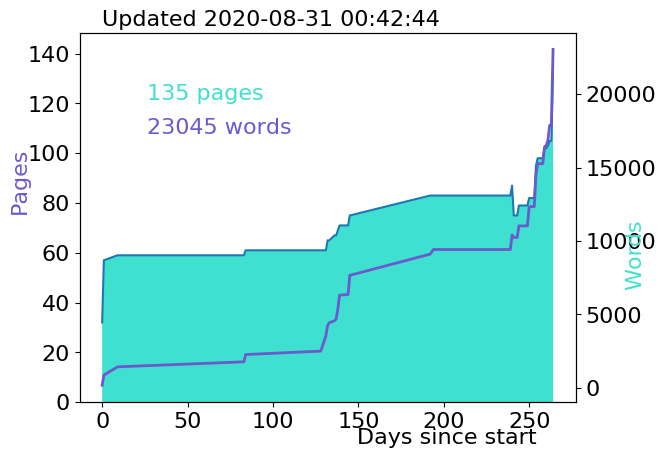
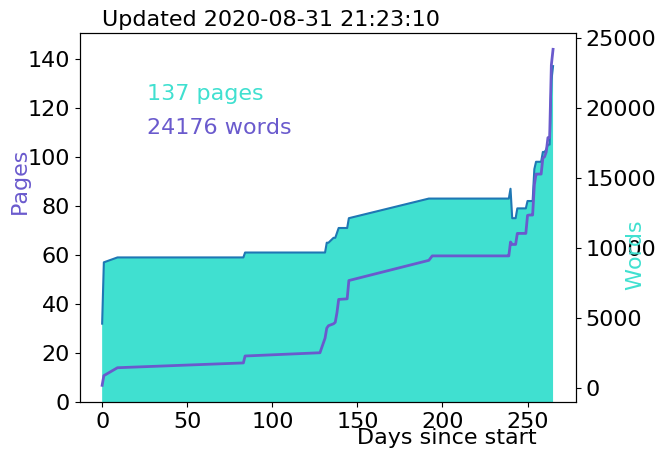
introduction and conclusion

diff --git a/Chapters/Introduction.tex b/Chapters/Introduction.tex
@@ -1,1 +1,37 @@
-%words
+\chapter{Introduction}
+
+Particle physics seeks to understand the fundamental structure of the universe by defining the minimal set of particles required to describe all physical phenomena. The \acf{SM} is the best attempt at such a description. The \ac{SM} has undergone decades of rigorous testing and can explain almost all phenomena we see in experiments, yet it has long been known that the \ac{SM} is missing explanations for essential physical phenomena like quantum description of gravity or a dark matter candidate. As a result, many \acf{BSM} theories have been developed and tested, hoping to extend and complete the picture the \ac{SM} gives. So far, none of these theories have been discovered where physicists expected and hoped they might be.
+
+The \acf{LHC} at \acf{CERN}, a 27 km particle collider outside of Geneva, Switzerland on the border with France, is the largest particle physics experiment in the world, and provides an extremely effective environment to test the \ac{SM} and a wide variety of \ac{BSM} theories. This thesis uses data from the \acf{ATLAS} experiment, one of the four largest experiments along the \ac{LHC} ring designed to measure the results of \ac{LHC} collisions.
+
+Beams of protons circulate and collide in the \ac{LHC}, and if two protons collide with sufficiently high energy, massive particles can be created; $\sqrt{s} = 8 \TeV$ collisions enabled the 2012 discovery of the Higgs boson with mass of 125 \GeV. The \ac{LHC} provides 60 million collisions per second, enabling physicists to use the various subdetectors of \ac{ATLAS} are used together search for new and rare physical phenomena. Unfortunately, after 8 years of data taking no evidence of \ac{BSM} physics has been found. Data taking is scheduled to resume in 2022 with only a moderate increase in collision energy and about a factor 2 more data. 
+
+This is a call to re-examine the assumptions made in \ac{BSM} searches that have been performed so far. What could we have missed in our search for new physics at the TeV scale? Most searches are optimized for \ac{BSM} particles that either decay immediately or do not decay in the detector, but this misses a large range of intermediate lifetimes of possible \ac{BSM} particles. These signatures are challenging, but not impossible, to identify with \ac{ATLAS} as they result in displaced \ac{SM} particles. Many \ac{SM} particles are long lived, like muons or neutrons, and many \ac{BSM} theories predict particles with lifetimes that result in displaced decays. This thesis presents a search for one such signature.
+
+This thesis presents a search for two displaced \ac{SM} leptons, either electrons or muons, that are not connected by a displaced vertex. Due to the displacement and lack of vertex, a \ac{BSM} particle decaying to this signature would be vetoed by all other analyses at the \ac{LHC}. This search has unique sensitivity to a specific \acf{GMSB} \acf{SUSY} model where the \acf{LSP} is the superpartner to the graviton, the gravitino, and the \acf{NLSP} is a slepton, the superpartner to a lepton. The slepton is long lived because it relies on the very weak gravitational coupling to the gravitino. The last time this model was explored was in the OPAL experiment at \acf{LEP} \cite{opal}, where masses up to about 90 \GeV were probed for a full range of lifetimes, immediately decaying to detector stable and all possible signatures in between. This search probes almost an order of magnitude of mass phase space in a significantly more challenging environment than \ac{LEP}.
+
+Bespoke particle selection algorithms and robust data-driven background estimates were developed to be able to efficiently probe this uncovered phase space. This search for displaced leptons uses $136 \ifb$ of data collected by \ac{ATLAS} during Run 2 of the \ac{LHC}. Major backgrounds come from fakes of the reconstruction algorithms and muons from cosmic rays. Less than 1 background events are predicted and zero events are seen, and so limits on the mass and lifetime of sleptons in this model are set for the first time at the \ac{LHC}. 
+
+\autoref{chap:theory} provides theoretical motivation for searches for \ac{SUSY} and in particular long lived and \ac{GMSB} \ac{SUSY}.
+
+\autoref{chap:LHC} describes the \ac{LHC} and its design and operation.
+
+\autoref{chap:ATLAS} describes the \ac{ATLAS} subdetectors and how they are used to measure particles.
+
+\autoref{chap:eventreco} details particle reconstruction algorithms and the modifications made for this analysis.
+
+\autoref{chap:datamc} describes the \ac{ATLAS} data and \acf{MC} simulation of the signal model.
+
+\autoref{chap:llps} provides context for \ac{LLP} decays and searches.
+
+\autoref{chap:eventselection} describes the analysis strategy, lepton selection requirements and final event selection criteria.
+
+\autoref{chap:backgrounds} details the backgrounds to this signature and the algorithms for estimating them.
+
+\autoref{chap:systematics} describes the uncertainties applied to signal \ac{MC} in order to use the data to make a statement about the \ac{SUSY} model.
+
+\autoref{chap:results} presents the unblinded results as well as a description of the statistical interpretation. 
+
+\autoref{chap:conclusions} provides reflections on the analysis as well as possible improvements for future \ac{ATLAS} analyses for displaced leptons.
+
+

diff --git a/Chapters/Backgrounds.tex b/Chapters/Backgrounds.tex
@@ -1,4 +1,5 @@
 \chapter{Backgrounds}
+\label{chap:backgrounds}
 
 In this analysis, backgrounds are estimated per signal region. In SR-$ee$ and SR-$e\mu$, algorithmic fakes are the dominant source of background. In SR-$\mu\mu$, the background contribution from algorithmic fake muons and muons from heavy flavor decays is negligible ($\mathcal{O}(10^{-4})$), and the dominant background is from cosmic muons coincident with \ac{LHC} collisions. While the signal lepton selection and event selection described in the previous chapter very efficiently remove these backgrounds, background estimates are calculated to estimate any residual contribution. 
 
@@ -54,7 +55,7 @@ Since the \ac{MS} is so far from the \ac{PV}, the \z of individual MS segments i
 \end{figure}
 
 
-The distribution the $\dphicos-\sigeta$ distribution is much narrower in \sigeta than in \dphicos. This is because the \ac{MS} measures $\eta$ with an extremely high precision in the \acp{MDT} ($\mathcal{O}(10~\um)$), since it is the bending direction of the toroid and thus gives the momentum measurement, while the $\phi$ is measured by the \acp{RPC} with an order of magnitude less precision (($\mathcal{O}(10~\text{mm})$)). A high precision $\phi$ measurement of the combined muon comes from the \ac{ID}, but the cosmic tag must contend with these resolution issues to find a muon segment.
+The distribution the $\dphicos-\sigeta$ distribution is much narrower in \sigeta than in \dphicos. This is because the \ac{MS} measures $\eta$ with an extremely high precision in the \acp{MDT} ($\mathcal{O}(10~\um)$), since it is the bending direction of the toroid and thus gives the momentum measurement, while the $\phi$ is measured by the \acp{RPC} with an order of magnitude less precision ($\mathcal{O}(10~\text{mm})$). A high precision $\phi$ measurement of the combined muon comes from the \ac{ID}, but the cosmic tag must contend with these resolution issues to find a muon segment.
 
 Additionally, there are gaps in the \ac{MS} to allow for detector access, so a muon is conservatively tagged as a cosmic if it is back to back with this gap in detector coverage, as it could not be tagged as a cosmic using the geometric algorithm. A map of the material of the \ac{MS} is used to veto cosmic muons using this \emph{detector coverage veto}. \autoref{fig:cos_material_veto} shows the impact of each step on the muon distribution in VR-$\mu$, which is dominated by muons from cosmic rays.
 
@@ -238,7 +239,14 @@ This estimate and validation makes use of the two cosmic tags described in \auto
 \end{figure}
 
 
-To estimate the number of events entering SR-$\mu\mu$ from poorly measured 2 cosmic muon events, a scaling factor from good quality to bad quality muons, \rgood, is defined and applied to events which have one good quality and one bad quality muon, CR-$\mu\mu$-topbad. ``Good'' quality defines a muon that passes signal cuts on \nprecision, \nphi, and \chiCB, while a ``bad'' quality muon fails at least one of these cuts. For the nominal version of the estimate, it is assumed that there is one $\phi > 0$ muon (\mt) and one $\phi < 0$ muon (\mb), and \mt is the muon is scaled from poor to good quality. This is illustrated in \autoref{fig:cosmic_est}.
+To estimate the number of events entering SR-$\mu\mu$ from poorly measured 2 cosmic muon events, a scaling factor from good quality to bad quality muons, \rgood, is defined and applied to events which have one good quality and one bad quality muon, CR-$\mu\mu$-topbad. ``Good'' quality defines a muon that passes signal cuts on \nprecision, \nphi, and \chiCB, while a ``bad'' quality muon fails at least one of these cuts. For the nominal version of the estimate, it is assumed that there is one $\phi > 0$ muon (\mt) and one $\phi < 0$ muon (\mb), and \mt is the muon is scaled from poor to good quality. This is  in \autoref{fig:cosmic_est}.
+
+\begin{figure}[!ht]
+\centering
+\includegraphics[width=.8\textwidth]{figures/cosmics/background_sketch.png}
+\caption{A visual representation of the background estimation strategy}
+\label{fig:cosmic_est}
+\end{figure}
 
 \rgood for the SR-$\mu\mu$ estimate is defined using muons tagged with the full cosmic tag. A validation estimate is also defined, using the narrow and intermediate cosmic tags. The signal and validation regions used in this estimate are sketched in \autoref{fig:cosmic_SRVR} and the numbers of events in each region listed in \autoref{tab:estimate_counts}. Aside from Region 2 (CR-$\mu\mu$-topbad), all other regions in the SR and VR estimates are subsets of CR-$M_{\textrm{full}}$. These regions were chosen to maintain orthogonality, while minimizing signal contamination and maximizing statistical power. In all cases, statistical errors on \rgood are computed using the Wilson interval which is recommended for values close to zero with small statistics \cite{ROOTAsymmErrors}. 
 

diff --git a/Chapters/Conclusions.tex b/Chapters/Conclusions.tex
@@ -1,1 +1,12 @@
-%words
+\chapter{Conclusions}
+\label{chap:conclusions}
+
+The lifetime is an underexplored region of phase space for many natural \ac{BSM} theories and this thesis describes a search that covers a large gap in signature space at the \ac{LHC}. In $139 \ifb$ of $\sqrt{s} = 13~\TeV$ \ac{LHC} data collected by the \ac{ATLAS} detector, no signs of \ac{BSM} physics are seen. Three orthogonal signal regions are defined and less than 1 background event is predicted in each. 0 events are seen and limits are set on the possible mass and lifetime of sleptons in \ac{GMSB} \ac{SUSY} models. For a lifetime of 0.1 ns, selectron NLSP, smuon NSLP, stau NSLP, and co-NLSP scenarios are excluded for slepton masses up to 720~\GeV, 720~\GeV, 370~\GeV, and 830~\GeV, respectively, exceeding the OPAL co-NSLP limit~\cite{Abbiendi:2005gc} by almost an order of magnitude. Co-NSLP events are also excluded up to 10 ns for masses below 330~\GeV.
+
+A minimal, though substantial, set of optimizations were done to enable this result, but future analyses could improve upon this result in several ways. First, further optimization could be done of the electron reconstruction algorithm in order to boost efficiency at high \absdz as well as reduce the systematic uncertainty due to the variation in the lepton displacement selection efficiency. 
+
+An additional signal region could be added using a \ac{MET} trigger could increase sensitivity. This signal model has real \ac{MET} due to the gravitinos, but also muons are not included in the \ac{HLT} \ac{MET} calculation, so an \ac{MET} trigger is an effective displaced muon trigger. This is particularly potentially effective for low mass staus, which really suffer from high single lepton trigger \pt thresholds. 
+
+A bolder improvement would be to reconstruct all recorded events with \ac{LRT}, instead of the filtered 10\% that is currently used. This would enable more creativity in signal region design.
+
+This result should also be interpreted in conjunction with other searches, including prompt searches and those for stable massive particles, to probe the full possible lifetime space of sleptons and make a more lifetime-inclusive statement about \ac{GMSB} \ac{SUSY} at the \ac{LHC}. 

diff --git a/Chapters/ATLAS.tex b/Chapters/ATLAS.tex
@@ -1,4 +1,5 @@
 \chapter{The ATLAS Detector}
+\label{chap:ATLAS}
 
 The \ac{ATLAS} detector is a cylindrical general purpose particle detector designed to measure the products of $\sqrt{s} = 14 \TeV$ proton-proton collisions at the \ac{LHC}. It consists of three major sub-detectors: closest to the beamline is the the Inner Detector (ID), which measures the trajectories of charge particles, followed by the Calorimeters, which measure the energies of electromagnetic and hadronically interacting particles, and finally the Muon Spectrometer (MS) which measures the trajectories of muons. The \ac{ID} is surrounded by a super conducting solenoidal magnet that provides a uniform $2$ T magnetic field, enabling measurement of particles' charge and momentum, and a toroidal magnet surrounds \ac{MS}, for charge and momentum measurements of muons. In general, each subdetector consists of a barrel detector parallel to the beamline and perpendicular end-cap detectors on either end of the barrel detectors. \cite{atlas-overview}
 

diff --git a/Chapters/EventReconstruction.tex b/Chapters/EventReconstruction.tex
@@ -1,5 +1,5 @@
 \chapter{Event Reconstruction}
-\label{ch:EventReconstruction}
+\label{chap:eventreco}
 
 Event reconstruction is the process by which detector signals are converted into objects that can be used for physics analysis. This is a complex process that requires a great deal of focused effort by the \ac{ATLAS} collaboration. First, digital signals from the detector are collected into tracks and clusters, then they are combined to form reconstruction-level physics objects. Then, a identification steps is performed, where quality requirements are placed on the reconstruction-level objects to identify them as signatures of physical particles, like electrons and muons, that can be used in physics analyses. 
 

diff --git a/Chapters/DataMC.tex b/Chapters/DataMC.tex
@@ -1,4 +1,5 @@
 \chapter{Data and Monte Carlo Samples}
+\label{chap:datamc}
 
 Data and simulated Monte Carlo samples are used together to perform this analysis. ATLAS data from Run 2 of the LHC undergoes a special processing in order to make use of the special tracking and object reconstruction required to identify displaced leptons. Monte Carlo samples of both the bechmark model and Standard Model backgrounds are generated to define backgrounds and make a interpretation of the results in a specific signal model. All backgrounds are estimated from data, but Monte Carlo is used extensively to optimize signal selection.
 

diff --git a/horyn_thesis_chicago.tex b/horyn_thesis_chicago.tex
@@ -21,6 +21,7 @@
 \usepackage[nottoc,numbib]{tocbibind}
 \setcounter{tocdepth}{3}
 \renewcommand{\etdChapterHeadFormat}[1]{\uppercase{#1}}
+\renewcommand{\chapterautorefname}{Chapter}
 \newcommand{\todo}[2][TODO]{{\color{red}\em[{\textbf\em {#1}: }{#2}]}}
 \newcommand{\question}[2][Question]{{\color{blue}\em[{\textbf\em {#1}: }{#2}]}}
 \newcommand{\comebackto}[2][come back to this?]{{\color{magenta}\em[{\textbf\em {#1}: }{#2}]}}
@@ -137,6 +138,7 @@
 
 %----------------------------------------------------------------------------------------
 \part{Conclusions}
+\include{Chapters/Conclusions}
 
 \cleardoublepage 
 

diff --git a/Chapters/Systematics.tex b/Chapters/Systematics.tex
@@ -1,4 +1,5 @@
 \chapter{Signal Systematics}
+\label{chap:systematics}
 
 In order to use this analysis to make a statement about a potential \ac{BSM} model, the extent to which the signal \ac{MC} correctly simulates the real physical environment must be evaluated. Differences between data and \ac{MC} are studied in order to avoid underestimating or overestimating the expected number of \ac{BSM} events. 
 

diff --git a/FrontBackMatter/Acronyms.tex b/FrontBackMatter/Acronyms.tex
@@ -32,6 +32,8 @@
 \acro{TTC}{Trigger Timing and Control}
 \acro{ROB}{Read Out Board}
 \acro{RoI}{Region of Interest}
+\acro{LEP}{the Large Electron-Position Collider}
+
 %lhc acronyms
 \acro{CERN}{European Center for Nuclear Research}
 \acro{LHC}{Large Hadron Collider}

diff --git a/Chapters/LLPs.tex b/Chapters/LLPs.tex
@@ -1,4 +1,5 @@
 \chapter{Searching for Long Lived Particles}
+\label{chap:llps}
 
 This chapter presents some context about searches for \acp{LLP}, including basic concepts of particle decay, as well as advantages and challenges of unconventional searches.
 

diff --git a/Chapters/EventSelection.tex b/Chapters/EventSelection.tex
@@ -1,5 +1,5 @@
 \chapter{Event Selection}
-\label{chap:event-selection}
+\label{chap:eventselection}
 
 \section{Analysis Strategy}
 

diff --git a/Chapters/theory.tex b/Chapters/theory.tex
@@ -1,4 +1,5 @@
 \chapter{Theory}
+\label{chap:theory}
 
 \section{The Standard Model}
 \section{Open Questions}
